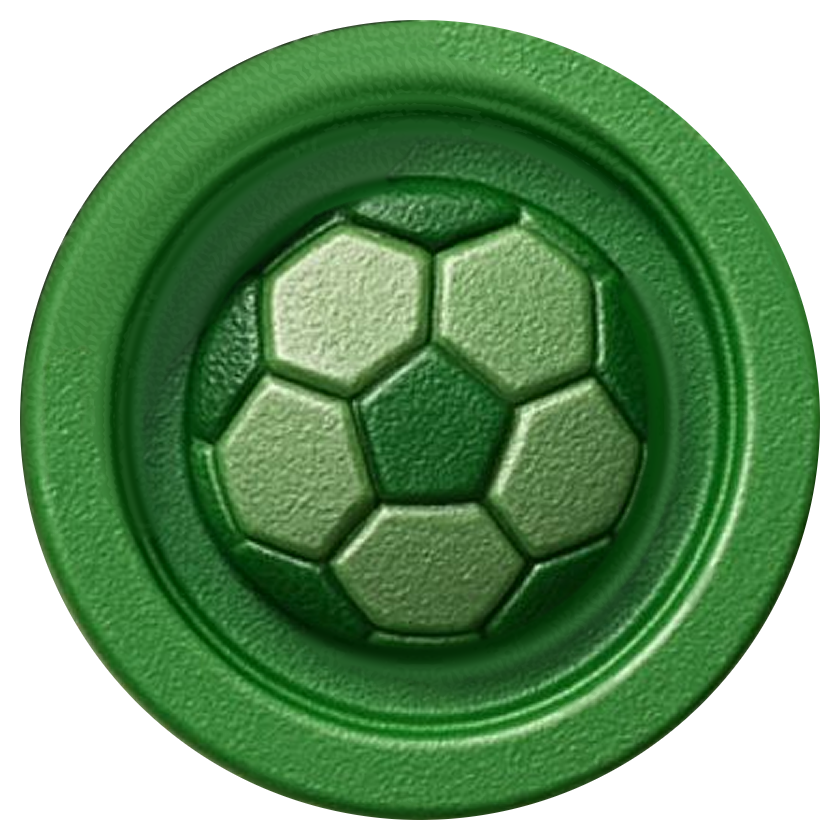
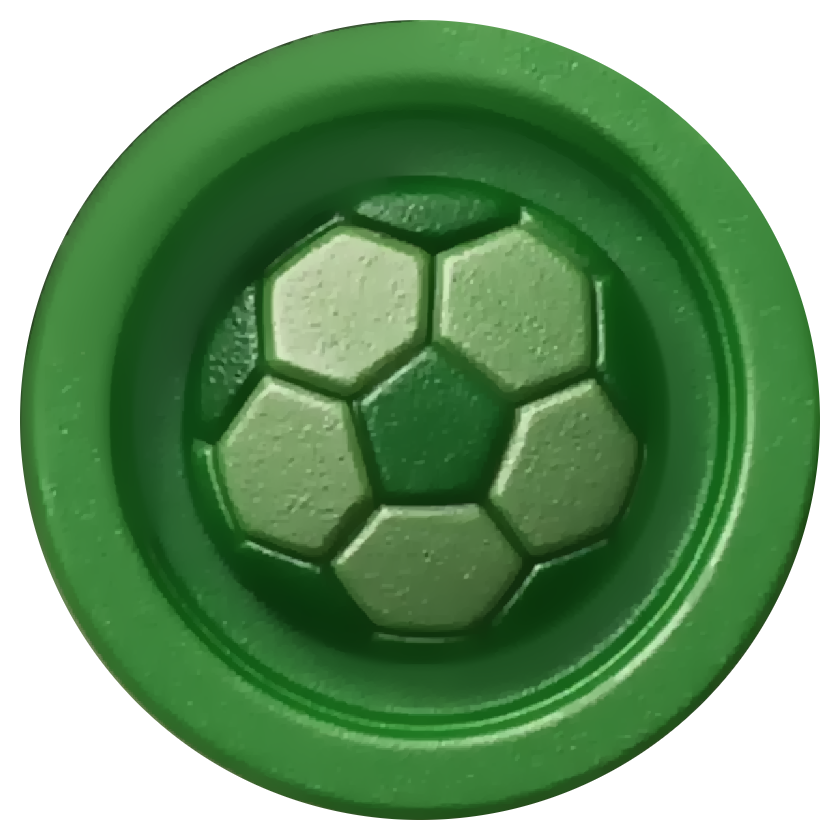
Monedele 3D netede, fara textura
Doua surse de "textura" pe fata monedelor, scoase amandoua:
- hartile de relief (normalMap + clearcoatNormalMap) din materialul fetei; PNG-urile
  *-normal.png nu mai sunt incarcate si au fost sterse din public/img/coins;
- granulatia "coaja de portocala" coapta chiar in sprite-urile de culoare, scoase din
  logo. Le-am netezit cu un filtru edge-preserving (domain transform, doua treceri),
  care lasa emailul plat dar pastreaza muchiile inelului si ale desenului. Originalele
  si scriptul stau in assets-src/coins-original.

Changed region(s): [[0.2786, 0.3095, 0.3095, 0.3405]]

diff --git a/app/src/three/CoinsScene.tsx b/app/src/three/CoinsScene.tsx
@@ -40,16 +40,17 @@ function domeGeometry(radius: number, sagitta: number, seg = 64) {
 
 /* ------------------------------------------------------------------ coin */
 function Coin({ def, index }: { def: CoinDef; index: number }) {
-  const [tex, nrm] = useTexture([def.tex, def.tex.replace('.png', '-normal.png')]);
+  // doar culoarea: fata monedei e neteda, fara harta de relief (nici pe email, nici pe lac)
+  const tex = useTexture(def.tex);
   const dome = useMemo(() => domeGeometry(R * 1.05, 0.05), []);
   const g = useRef<THREE.Group>(null!);
   const inner = useRef<THREE.Group>(null!);
   const intro = useRef({ t: 0, r: 0 });
   useMemo(() => { tex.colorSpace = THREE.SRGBColorSpace; tex.anisotropy = 16; }, [tex]);
 
-  // matte-ish base (no broad sheen) + mirror clearcoat (sharp reflections of thin strips) + edge-only normals
+  // matte-ish base (no broad sheen) + mirror clearcoat (sharp reflections of thin strips), smooth surface
   const side = useMemo(() => new THREE.MeshPhysicalMaterial({ color: def.color, roughness: 0.5, metalness: 0.05, clearcoat: 1, clearcoatRoughness: 0.02, envMapIntensity: 0.45 }), [def.color]);
-  const face = useMemo(() => new THREE.MeshPhysicalMaterial({ map: tex, normalMap: nrm, normalScale: new THREE.Vector2(1.15, 1.15), transparent: true, roughness: 0.62, metalness: 0.02, clearcoat: 1, clearcoatRoughness: 0.0, clearcoatNormalMap: nrm, clearcoatNormalScale: new THREE.Vector2(1.4, 1.4), envMapIntensity: 0.4, alphaTest: 0.02 }), [tex, nrm]);
+  const face = useMemo(() => new THREE.MeshPhysicalMaterial({ map: tex, transparent: true, roughness: 0.62, metalness: 0.02, clearcoat: 1, clearcoatRoughness: 0.0, envMapIntensity: 0.4, alphaTest: 0.02 }), [tex]);
   const back = useMemo(() => new THREE.MeshPhysicalMaterial({ color: def.color, roughness: 0.5, clearcoat: 1, clearcoatRoughness: 0.03, envMapIntensity: 0.45 }), [def.color]);
   const mats = useMemo(() => [side, back, back], [side, back]);
   useEffect(() => () => { side.dispose(); face.dispose(); back.dispose(); dome.dispose(); }, [side, face, back, dome]);

diff --git a/assets-src/coins-original/smooth.py b/assets-src/coins-original/smooth.py
@@ -1,0 +1,16 @@
+"""Netezeste granulatia 'coaja de portocala' coapta in sprite-urile monedelor, pastrand muchiile
+(inelul, desenul). Filtru edge-preserving (domain transform) in doua treceri, doar pe culoare;
+alfa ramane neatins. Sursele originale stau in assets-src/coins-original."""
+import cv2, numpy as np, os
+src='D:/Teo/PNL/Site-uri/Olimpiada Liceelor/assets-src/coins-original'
+dst='D:/Teo/PNL/Site-uri/Olimpiada Liceelor/app/public/img/coins'
+for f in sorted(os.listdir(src)):
+    if not f.endswith('.png') or 'normal' in f: continue
+    im=cv2.imread(os.path.join(src,f), cv2.IMREAD_UNCHANGED)
+    bgr, a = im[:,:,:3], im[:,:,3]
+    # pixelii transparenti sunt negri: ii umplem cu vecinii, altfel filtrul trage negru in inel
+    bgr=cv2.inpaint(bgr, (a<8).astype(np.uint8), 3, cv2.INPAINT_TELEA)
+    out=cv2.edgePreservingFilter(bgr, flags=cv2.RECURS_FILTER, sigma_s=40, sigma_r=0.20)
+    out=cv2.edgePreservingFilter(out, flags=cv2.RECURS_FILTER, sigma_s=30, sigma_r=0.12)
+    cv2.imwrite(os.path.join(dst,f), np.dstack([out,a]), [cv2.IMWRITE_PNG_COMPRESSION,9])
+    print(f, os.path.getsize(os.path.join(dst,f)))
